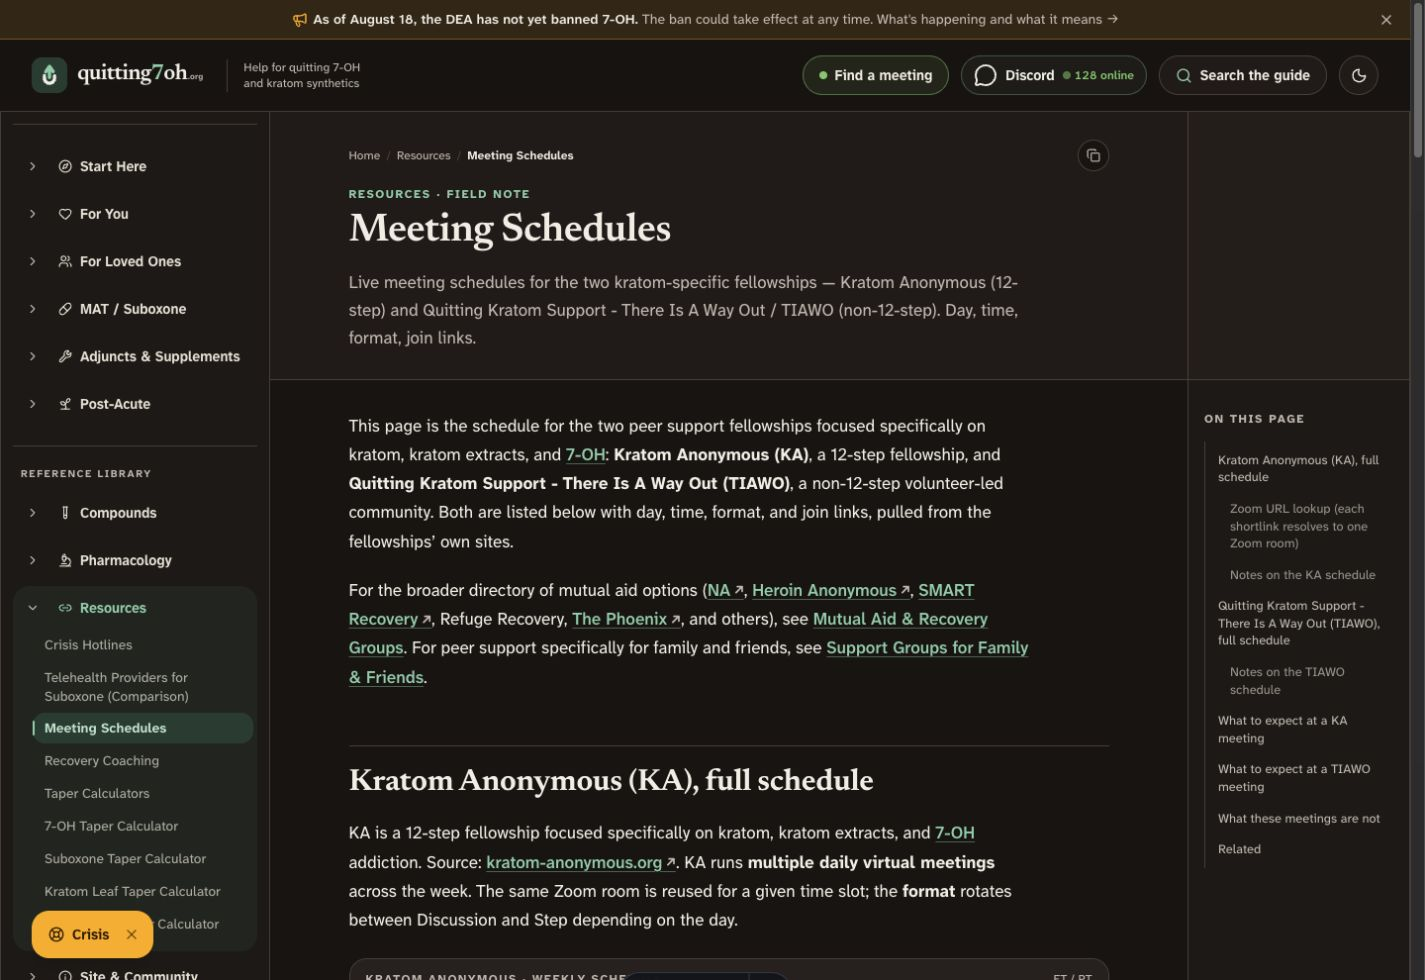
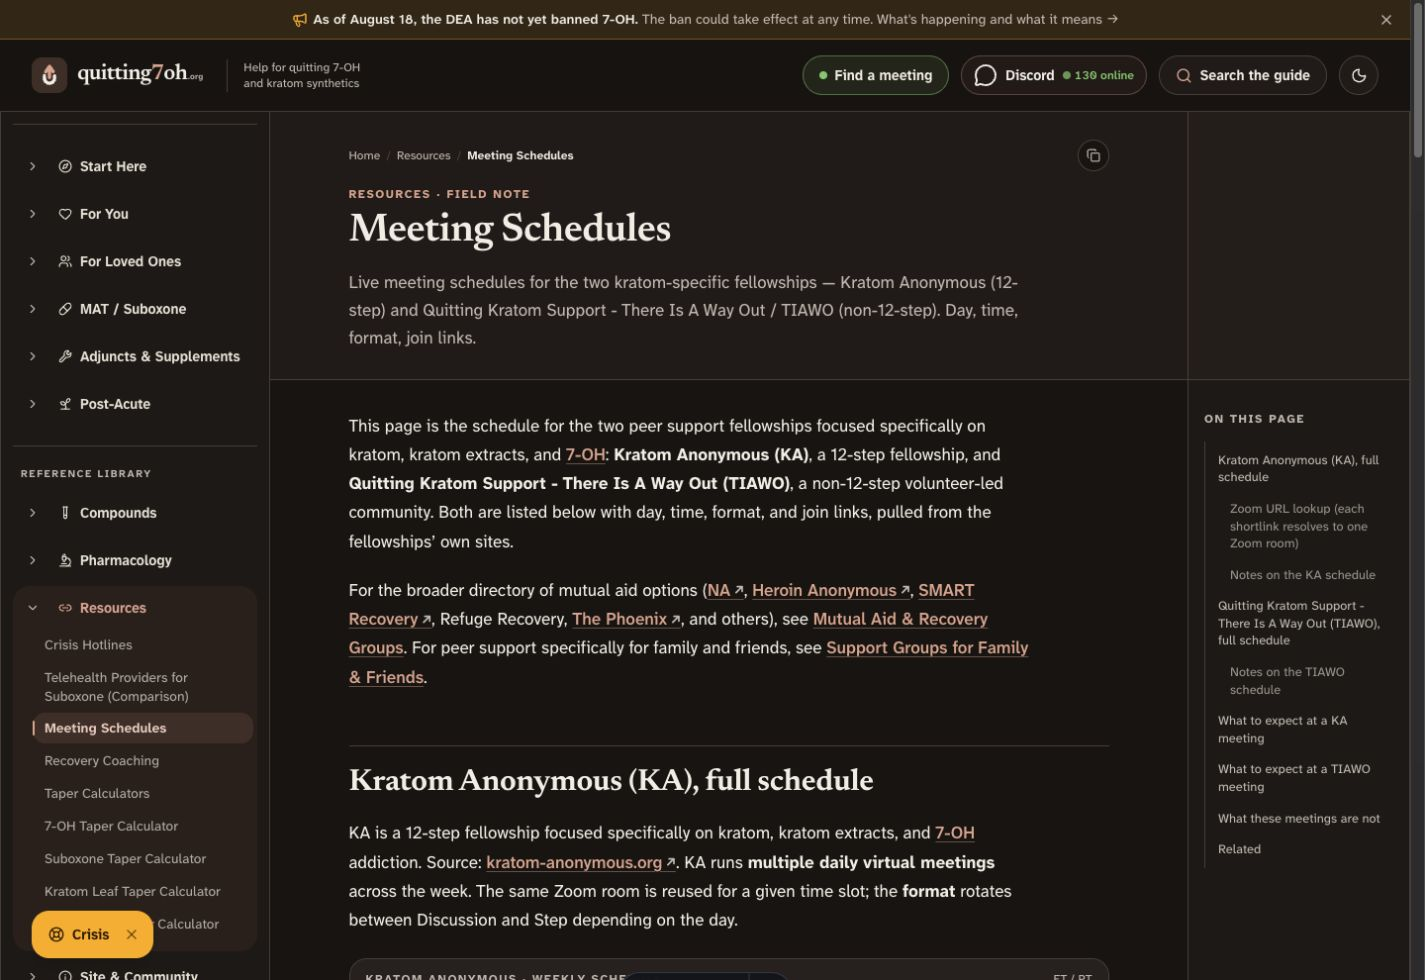
adopt burnt clay and compact callouts

diff --git a/src/styles/global.css b/src/styles/global.css
@@ -19,24 +19,24 @@
 
 @custom-variant dark (&:where(.dark, .dark *));
 
-/* Field Guide design system: quiet paper, laurel green, warm signals. */
+/* Field Guide design system: quiet paper, burnt clay, warm signals. */
 @theme {
   --font-sans: 'Atkinson Hyperlegible Next Variable', ui-sans-serif, system-ui,
     -apple-system, BlinkMacSystemFont, 'Segoe UI', sans-serif;
   --font-display: 'Newsreader Variable', ui-serif, Georgia, Cambria, serif;
   --font-mono: ui-monospace, SFMono-Regular, Menlo, Monaco, Consolas, monospace;
 
-  --color-accent-50: #f4f8f5;
-  --color-accent-100: #e7f0ea;
-  --color-accent-200: #cfe1d5;
-  --color-accent-300: #a9cab4;
-  --color-accent-400: #7eac90;
-  --color-accent-500: #5d8f70;
-  --color-accent-600: #467358;
-  --color-accent-700: #385c48;
-  --color-accent-800: #304b3c;
-  --color-accent-900: #293f34;
-  --color-accent-950: #14231c;
+  --color-accent-50: #fcf6f3;
+  --color-accent-100: #f8e9e3;
+  --color-accent-200: #f0d1c5;
+  --color-accent-300: #e3ac99;
+  --color-accent-400: #cf8067;
+  --color-accent-500: #b96048;
+  --color-accent-600: #994934;
+  --color-accent-700: #7d3d2e;
+  --color-accent-800: #67352b;
+  --color-accent-900: #552f28;
+  --color-accent-950: #2e1713;
 }
 
 @theme inline {
@@ -91,36 +91,36 @@
     --card-foreground: 22 16% 14%;
     --popover: 44 44% 99%;
     --popover-foreground: 22 16% 14%;
-    --primary: 145 29% 32%;
+    --primary: 15 42% 38%;
     --primary-foreground: 44 52% 98%;
     --secondary: 38 24% 91%;
     --secondary-foreground: 22 15% 18%;
     --muted: 40 25% 93%;
     --muted-foreground: 24 10% 36%;
-    --accent: 144 23% 91%;
-    --accent-foreground: 145 32% 25%;
+    --accent: 20 31% 91%;
+    --accent-foreground: 15 45% 28%;
     --destructive: 2 62% 43%;
     --destructive-foreground: 0 0% 100%;
     --border: 38 20% 82%;
     --input: 38 22% 78%;
-    --ring: 145 42% 36%;
+    --ring: 15 50% 42%;
     --signal: 35 88% 46%;
     --signal-foreground: 32 80% 12%;
     --success: 104 35% 34%;
     --success-foreground: 150 40% 98%;
-    --chart-1: 145 32% 37%;
+    --chart-1: 15 45% 42%;
     --chart-2: 132 28% 38%;
     --chart-3: 35 78% 48%;
     --chart-4: 282 35% 49%;
     --chart-5: 3 55% 48%;
     --sidebar: 40 27% 94%;
     --sidebar-foreground: 22 15% 20%;
-    --sidebar-primary: 145 29% 32%;
+    --sidebar-primary: 15 42% 38%;
     --sidebar-primary-foreground: 44 52% 98%;
-    --sidebar-accent: 144 22% 89%;
-    --sidebar-accent-foreground: 145 32% 25%;
+    --sidebar-accent: 19 29% 89%;
+    --sidebar-accent-foreground: 15 45% 28%;
     --sidebar-border: 38 20% 81%;
-    --sidebar-ring: 145 42% 36%;
+    --sidebar-ring: 15 50% 42%;
   }
 
   html.dark {
@@ -131,36 +131,36 @@
     --card-foreground: 42 28% 92%;
     --popover: 22 13% 11%;
     --popover-foreground: 42 28% 92%;
-    --primary: 143 35% 69%;
-    --primary-foreground: 146 37% 10%;
+    --primary: 18 48% 70%;
+    --primary-foreground: 14 45% 10%;
     --secondary: 22 12% 17%;
     --secondary-foreground: 42 22% 88%;
     --muted: 22 11% 16%;
     --muted-foreground: 30 11% 72%;
-    --accent: 146 18% 20%;
-    --accent-foreground: 142 35% 82%;
+    --accent: 17 22% 20%;
+    --accent-foreground: 20 45% 82%;
     --destructive: 3 55% 48%;
     --destructive-foreground: 0 0% 100%;
     --border: 24 11% 25%;
     --input: 24 11% 30%;
-    --ring: 143 44% 68%;
+    --ring: 18 55% 69%;
     --signal: 38 90% 58%;
     --signal-foreground: 32 82% 10%;
     --success: 104 43% 61%;
     --success-foreground: 154 53% 9%;
-    --chart-1: 143 35% 69%;
+    --chart-1: 18 48% 70%;
     --chart-2: 132 36% 58%;
     --chart-3: 38 90% 58%;
     --chart-4: 283 55% 72%;
     --chart-5: 4 70% 68%;
     --sidebar: 22 14% 10%;
     --sidebar-foreground: 42 23% 86%;
-    --sidebar-primary: 143 35% 69%;
-    --sidebar-primary-foreground: 146 37% 10%;
-    --sidebar-accent: 146 18% 20%;
-    --sidebar-accent-foreground: 142 35% 82%;
+    --sidebar-primary: 18 48% 70%;
+    --sidebar-primary-foreground: 14 45% 10%;
+    --sidebar-accent: 17 22% 20%;
+    --sidebar-accent-foreground: 20 45% 82%;
     --sidebar-border: 24 11% 24%;
-    --sidebar-ring: 143 44% 68%;
+    --sidebar-ring: 18 55% 69%;
   }
 
   * {
@@ -420,15 +420,38 @@
   }
 
   .prose-recovery :where(blockquote) {
-    max-width: 43rem;
-    margin: 1.75rem 0;
+    max-width: 46rem;
+    margin: 1.4rem 0;
     border: 0;
     border-left: 0.3rem solid hsl(var(--primary));
     background: hsl(var(--muted) / 0.55);
-    padding: 0.9rem 1.05rem;
+    padding: 0.75rem 0.9rem;
     color: hsl(var(--foreground));
     font-style: normal;
     font-weight: 470;
+  }
+
+  .prose-recovery > blockquote:first-child {
+    margin-top: 0;
+  }
+
+  .prose-recovery :where(blockquote) :where(p, li) {
+    line-height: 1.62;
+  }
+
+  .prose-recovery :where(blockquote) :where(ul, ol):not(.not-prose *) {
+    max-width: none;
+    margin: 0.65rem 0 0.3rem;
+    padding-left: 1.15rem;
+  }
+
+  .prose-recovery :where(blockquote) :where(ul, ol):not(.not-prose *) > li {
+    margin: 0.34rem 0;
+    padding-left: 0.2rem;
+  }
+
+  .prose-recovery :where(blockquote) > :last-child {
+    margin-bottom: 0;
   }
 
   .prose-recovery :where(blockquote) p:first-child::before,

diff --git a/REDESIGN.md b/REDESIGN.md
@@ -29,7 +29,7 @@ repeating each category description.
 - Content-page titles run from 2.1rem to 2.5rem. Article section headings stay
   near 1.9rem; 1.16rem sans-serif subsection bands create a second, clearly
   different level. The larger display scale is reserved for the homepage.
-- Lists use familiar disc and decimal markers with restrained laurel color.
+- Lists use familiar disc and decimal markers with restrained burnt-clay color.
   The first pass's ring bullets and zero-padded counters were removed because
   they drew attention away from the text.
 
@@ -45,11 +45,11 @@ surface and contrast values.
 | --- | --- | --- | --- |
 | Page | `hsl(43 38% 97%)` | `hsl(22 14% 8%)` | Reading background |
 | Ink | `hsl(22 16% 14%)` | `hsl(42 28% 92%)` | Body and headings |
-| Laurel | `hsl(145 29% 32%)` | `hsl(143 35% 69%)` | Links, navigation, ordinary action |
+| Burnt clay | `hsl(15 42% 38%)` | `hsl(18 48% 70%)` | Links, navigation, ordinary action |
 | Amber | `hsl(35 88% 46%)` | `hsl(38 90% 58%)` | Crisis and time-sensitive status |
 | Leaf | `hsl(104 35% 34%)` | `hsl(104 43% 61%)` | Live meetings and available support |
 
-Laurel carries navigation and ordinary actions. Amber identifies urgency in
+Burnt clay carries navigation and ordinary actions. Amber identifies urgency in
 the banner, floating crisis control, and high-risk callouts.
 
 ## Space and layout
@@ -73,6 +73,9 @@ sections are not skipped.
 Wide data tables stay tables. Their containing card scrolls on the horizontal
 axis, keeps the day column visible, and uses tabular numerals. Calculators use
 the same field, summary, chart, and schedule treatments as the meeting tools.
+Callouts use a wider 46rem measure than paragraph text and tighter internal
+list rhythm, allowing dense summaries to stay compact without shrinking body
+type.
 
 ## Components
 

diff --git a/docs/brand/agent-context.md b/docs/brand/agent-context.md
@@ -52,11 +52,11 @@ way:**
 - **Type:** titles and major sections use **Newsreader**; body text,
   controls, and subsections use **Atkinson Hyperlegible Next**. Both are
   self-hosted variable fonts. The role split must stay visible.
-- **Palette:** warm paper and brown-charcoal ink with laurel green for
+- **Palette:** warm paper and brown-charcoal ink with burnt clay for
   links and ordinary actions. Light: background `hsl(43 38% 97%)`, text
-  `hsl(22 16% 14%)`, primary `hsl(145 29% 32%)`. Dark: background
+  `hsl(22 16% 14%)`, primary `hsl(15 42% 38%)`. Dark: background
   `hsl(22 14% 8%)`, text `hsl(42 28% 92%)`, primary
-  `hsl(143 35% 69%)`. Use the dark values directly.
+  `hsl(18 48% 70%)`. Use the dark values directly.
 - **Style by role, not raw hex:** background, foreground, card, primary,
   secondary, muted, accent, border, destructive — each with a light and a
   dark value. Support both modes.

diff --git a/src/content/about/changelog.md b/src/content/about/changelog.md
@@ -18,6 +18,11 @@ This page tracks substantive changes to the site: new pages, rewrites, layout wo
 
 ### Redesign follow-up
 
+- Adopted the muted burnt-clay palette after the laurel trial. Live and
+  available states remain leaf green; amber remains reserved for urgency.
+- Compacted callouts with a wider dense-information measure, less internal
+  padding, tighter list rhythm, and no extra top gap when a callout opens a
+  page.
 - Fixed table-of-contents landings that were applying two competing header
   offsets. Active-section tracking now shares the document anchor offset,
   follows short adjacent sections, stabilizes hash links after early layout

diff --git a/CHANGELOG.md b/CHANGELOG.md
@@ -10,6 +10,11 @@ the public changelog at `/about/changelog`, generated by
 
 ### Redesign follow-up
 
+- Adopted the muted burnt-clay palette after the laurel trial. Live and
+  available states remain leaf green; amber remains reserved for urgency.
+- Compacted callouts with a wider dense-information measure, less internal
+  padding, tighter list rhythm, and no extra top gap when a callout opens a
+  page.
 - Fixed table-of-contents landings that were applying two competing header
   offsets. Active-section tracking now shares the document anchor offset,
   follows short adjacent sections, stabilizes hash links after early layout
